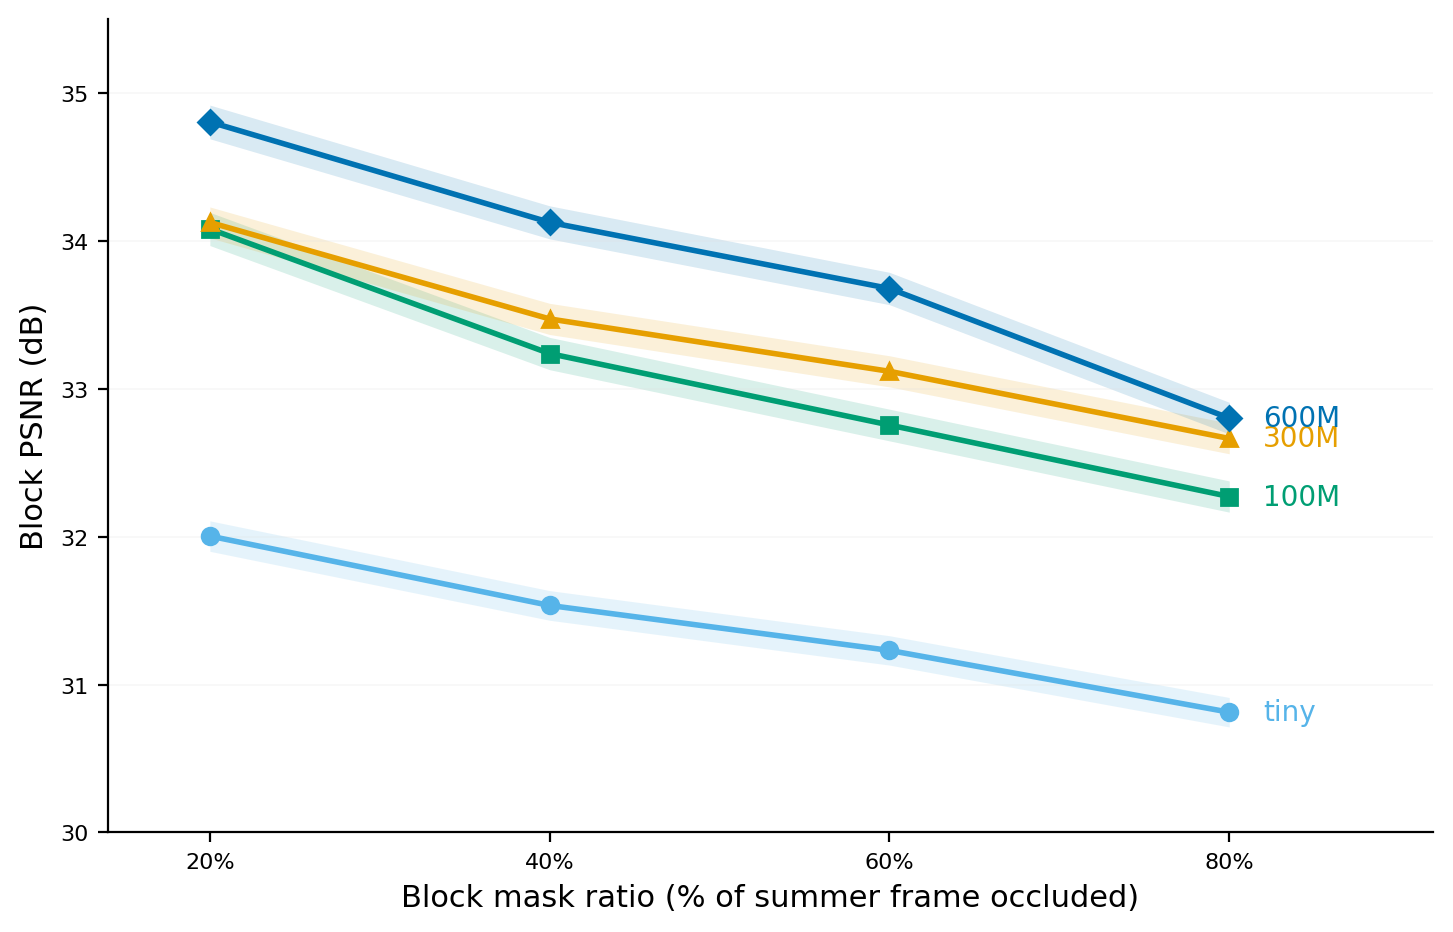
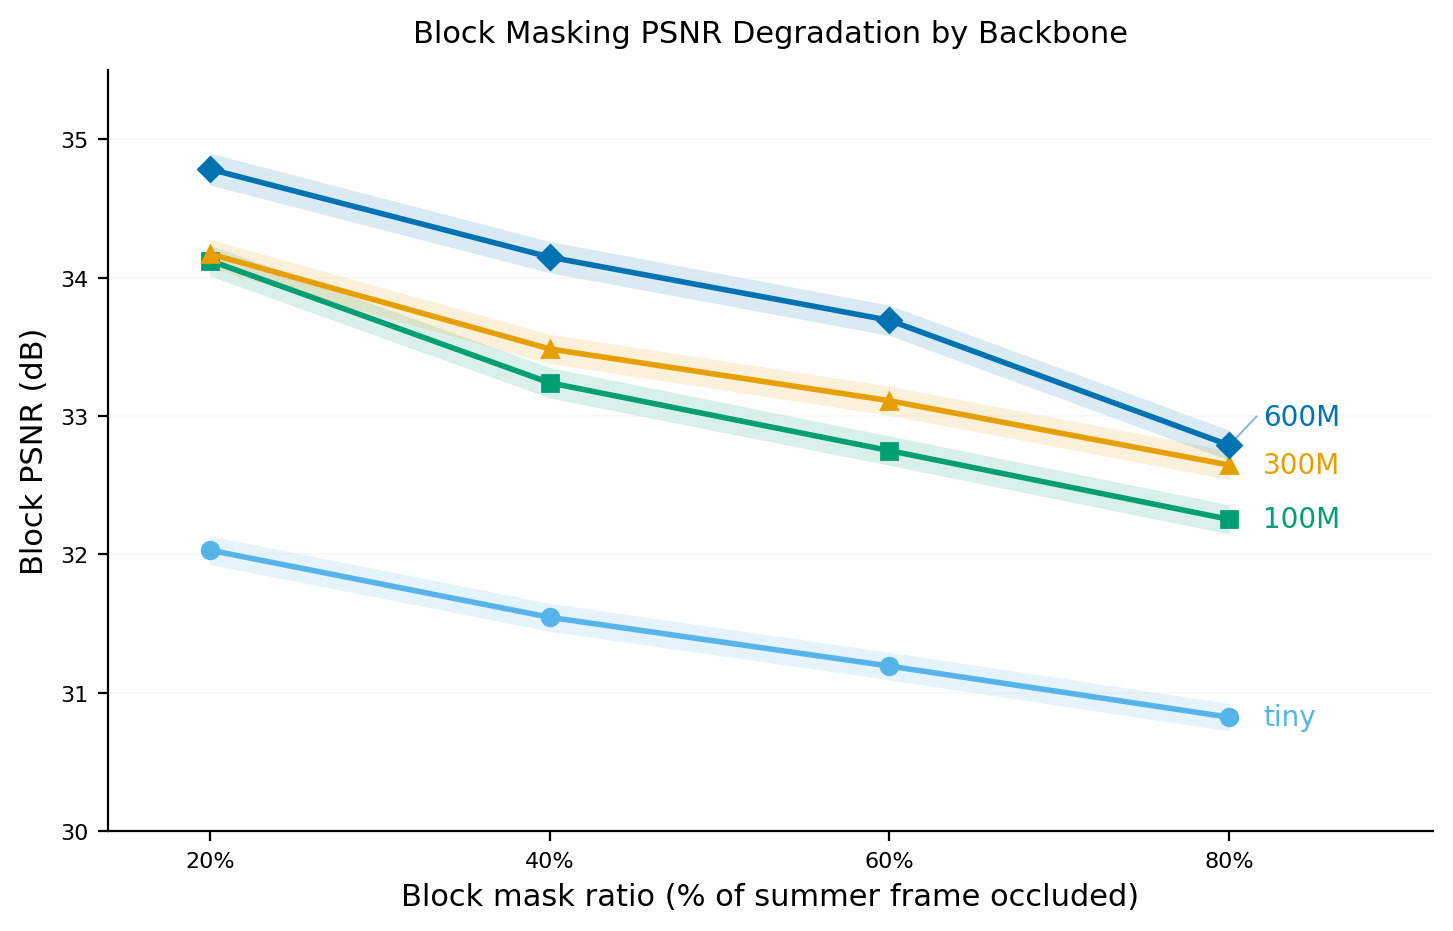
Add title and fix end-label collision in block degradation plot
600M/300M labels overlapped at 80% ratio where their values sit within
0.3 dB of each other. Added collision-avoidance: labels pushed apart to a
minimum gap, thin leader line drawn back to the true data point when nudged.

diff --git a/multi_tile_generalization/block_masking_study/scripts/plot_block_degradation.py b/multi_tile_generalization/block_masking_study/scripts/plot_block_degradation.py
@@ -4,7 +4,6 @@ plot_block_degradation.py
 Block-masking PSNR degradation by backbone, corrected data.
 500 chips x 5 trials, contiguous rectangular block on the summer frame,
 spring/fall context frames fully visible.
-
 Reads outputs/results_{bb}.csv -> outputs/figures/fig_block_degradation.png
 """
 import os, sys
@@ -14,7 +13,6 @@ import pandas as pd
 import matplotlib
 matplotlib.use("Agg")
 import matplotlib.pyplot as plt
-
 SCRIPT_DIR = Path(__file__).resolve().parent
 sys.path.insert(0, str(SCRIPT_DIR))
 from _style import get_style, BACKBONES, RATIOS, MARKERS
@@ -24,6 +22,7 @@ FIG_DIR = OUT_DIR / "figures"
 FIG_DIR.mkdir(parents=True, exist_ok=True)
 
 YLIM = (30, 35.5)
+MIN_LABEL_GAP = 0.35  # dB -- minimum vertical spacing between end-of-line labels
 
 apply_style, COLORS = get_style()
 apply_style()
@@ -31,6 +30,7 @@ apply_style()
 fig, ax = plt.subplots(figsize=(7.4, 4.8))
 x = np.array([int(r * 100) for r in RATIOS])
 
+end_labels = []  # (y_true, backbone, color)
 for bb in BACKBONES:
     df = pd.read_csv(OUT_DIR / f"results_{bb}.csv")
     g = df.groupby("mask_ratio")["block_psnr"]
@@ -39,10 +39,24 @@ for bb in BACKBONES:
     c = COLORS[bb]
     ax.fill_between(x, m - 1.96*se, m + 1.96*se, color=c, alpha=0.15, lw=0)
     ax.plot(x, m, color=c, marker=MARKERS[bb], ms=6, lw=2.0, zorder=3)
-    # label at line end instead of a legend box
-    ax.text(x[-1] + 2.0, m[-1], bb, color=c, fontsize=10,
+    end_labels.append((m[-1], bb, c))
+
+# Stagger end-of-line labels so close backbones (e.g. 600M/300M at high
+# ratio) don't overlap: sort by value, push apart to a minimum gap, and
+# draw a thin leader line back to the true data point if nudged.
+end_labels.sort(key=lambda t: t[0])
+adjusted_y = []
+for y_true, bb, c in end_labels:
+    y = y_true if not adjusted_y else max(y_true, adjusted_y[-1] + MIN_LABEL_GAP)
+    adjusted_y.append(y)
+
+for (y_true, bb, c), y_label in zip(end_labels, adjusted_y):
+    if abs(y_label - y_true) > 0.02:
+        ax.plot([x[-1], x[-1] + 1.6], [y_true, y_label], color=c, lw=0.7, alpha=0.5, zorder=2)
+    ax.text(x[-1] + 2.0, y_label, bb, color=c, fontsize=10,
             va="center", ha="left", fontweight="medium")
 
+ax.set_title("Block Masking PSNR Degradation by Backbone", fontsize=11, pad=10)
 ax.set_xlabel("Block mask ratio (% of summer frame occluded)")
 ax.set_ylabel("Block PSNR (dB)")
 ax.set_xticks(x)
@@ -51,7 +65,6 @@ ax.set_xlim(14, 92)
 ax.set_ylim(*YLIM)
 ax.grid(axis="y", alpha=0.25, lw=0.6)
 ax.grid(axis="x", visible=False)
-
 fig.tight_layout()
 out = FIG_DIR / "fig_block_degradation.png"
 fig.savefig(out, bbox_inches="tight")
